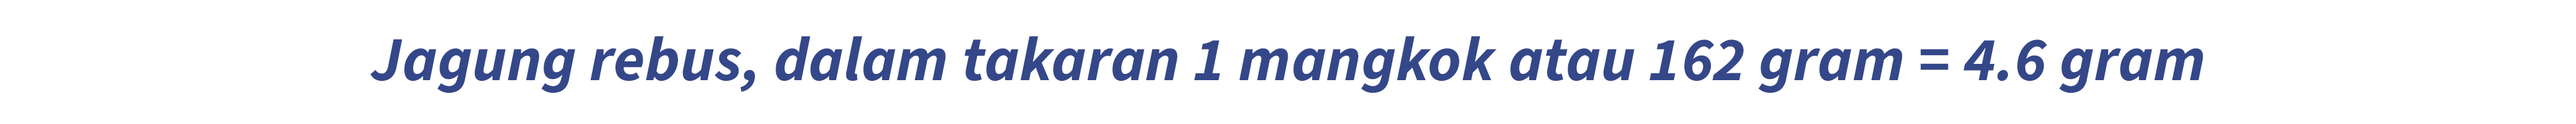
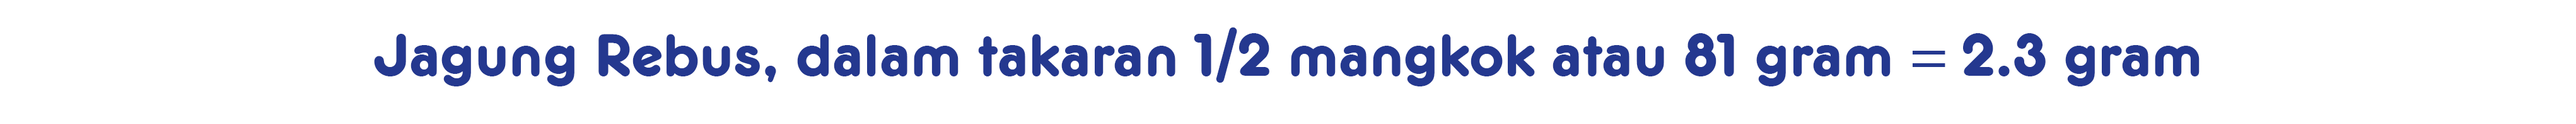
update anl

Changed region(s): [[0.1244, 0.2424, 0.8705, 0.7576], [0.2798, 0.697, 0.3109, 0.7273]]

diff --git a/src/scenes/QrScanner.js b/src/scenes/QrScanner.js
@@ -43,27 +43,52 @@ export class QrScanner extends Scene {
             }
         ).setShadow(1, 1).setDepth(1).setOrigin(0.5).setVisible(false);
 
-        // Menangani input dari barcode scanner yang bertindak seperti keyboard
-        this.input.keyboard.on('keydown', (event) => {
-            // Tambahkan karakter yang diterima ke scannedData
-            this.scannedData += event.key;
+        // this.input.keyboard.on('keydown', (event) => {
+        //     if (!this.isScanning) return;
 
-            // Hapus timeout lama jika ada
-            if (this.scanTimeout) {
-                clearTimeout(this.scanTimeout);
-            }
+        //     this.scannedData += event.key;
 
-            // Set timeout untuk memproses data setelah beberapa waktu (misal 500ms)
-            this.scanTimeout = setTimeout(() => {
-                if (this.scannedData) {
-                    // Lakukan pemrosesan pemindaian QR Code
-                    this.handleScanResult(this.scannedData);
-                    this.scannedData = ''; // Reset scannedData setelah diproses
+        //     if (this.scanTimeout) {
+        //         clearTimeout(this.scanTimeout);
+        //     }
+
+        //     this.scanTimeout = setTimeout(() => {
+        //         if (this.scannedData.trim()) {
+        //             this.handleScanResult(this.scannedData.trim());
+        //             this.scannedData = '';
+        //         }
+        //     }, 100);
+        // });
+
+        // Menambahkan input elemen DOM
+        const inputElement = this.add.dom(this.cameras.main.width / 2, this.cameras.main.height / 2)
+            .createFromCache('inputScan')
+            .setVisible(true);
+
+        // Pastikan inputElement adalah DOM element yang benar
+        const input = inputElement.getChildByName('scanField'); // Pastikan 'inputElement' adalah nama yang diberikan pada elemen input
+
+        if (input) {
+            input.style.opacity = 0;  // Menyembunyikan input element
+            input.style.pointerEvents = 'none';  // Tidak bisa diklik
+
+            // Fokuskan ke input untuk menerima data scanner
+            input.focus();
+
+            input.addEventListener('keydown', (event) => {
+                if (event.key === 'Enter') {
+                    const scannedValue = input.value.trim();
+                    if (scannedValue) {
+                        console.log(`Scanned Value: ${scannedValue}`);
+                        this.handleScanResult(scannedValue);
+                        input.value = ''; // Reset setelah memproses
+                    }
                 }
-            }, 500); // Waktu tunggu 500ms
-        });
+            });
+        } else {
+            console.log("Input element tidak ditemukan.");
+        }
 
-        // Elemen visual lainnya
         this.add.image(this.cameras.main.width / 2,
             this.cameras.main.height / 1.67, 'bebelac').setScale(1.6)
         const neon = this.add.image(this.cameras.main.width / 2,
@@ -74,7 +99,6 @@ export class QrScanner extends Scene {
             y: this.cameras.main.height / 1.67 - 220,
             duration: 2000,
             ease: 'Power',
-            // delay: 500,
             yoyo: true,
             repeat: -1,
         });
@@ -92,6 +116,7 @@ export class QrScanner extends Scene {
             .setScale(1).setOrigin(0.5, 0.5).setVisible(false);
         this.nextBtn = this.add.image(this.cameras.main.width / 2, this.cameras.main.height / 1.2, 'next')
             .setScale(0.2).setOrigin(0.5, 0.5).setInteractive().setVisible(false);
+
         this.nextBtn.on('pointerdown', () => {
             this.bg.setVisible(false);
             this.food.setVisible(false);
@@ -101,7 +126,7 @@ export class QrScanner extends Scene {
             this.nextBtn.setVisible(false)
             this.isScanning = true;
             if (this.countScan === 5) {
-                
+
                 localStorage.setItem('score', this.score.toFixed(1).toString());
                 this.countScan = 1;
                 this.score = 0;
@@ -135,9 +160,8 @@ export class QrScanner extends Scene {
     }
 
     handleScanResult(data) {
-        // Tampilkan informasi berdasarkan hasil pemindaian
         console.log(`QR Code Detected: ${data.split('Enter')[0]}`);
-        const split = data.split('Enter')[0]
+        const split = data.split('Enter')[0].toLowerCase()
         console.log(split);
         if (this.isScanning) {
             switch (split) {
@@ -150,11 +174,11 @@ export class QrScanner extends Scene {
                     this.showFoodInfo(split)
                     break;
                 case "brokoli":
-                    this.score = this.score + 5.2;
+                    this.score = this.score + 2.6;
                     this.showFoodInfo(split)
                     break;
                 case "jagung":
-                    this.score = this.score + 4.6;
+                    this.score = this.score + 2.3;
                     this.showFoodInfo(split)
                     break;
                 case "pisang":
@@ -166,11 +190,11 @@ export class QrScanner extends Scene {
                     this.showFoodInfo(split)
                     break;
                 case "susu-fosgos":
-                    this.score = this.score + 3;
+                    this.score = this.score + 2;
                     this.showFoodInfo(split)
                     break;
                 case "tomat":
-                    this.score = this.score + 1.5;
+                    this.score = this.score + 1;
                     this.showFoodInfo(split)
                     break;
                 case "pepaya":

diff --git a/public/assets/html/inputScan.html b/public/assets/html/inputScan.html
@@ -1,0 +1,5 @@
+<div id="inputScan"
+    style="width:auto; height: auto; padding: 30px;  border-radius: 10px; text-align: center; ">
+    <input type="text" name="scanField" placeholder="Masukkan nama Anda"
+        style="width:auto; padding: 30px; margin-bottom: 40px; color: rgb(233, 170, 11); font-size: 10px; text-align: center; font-weight: bold; box-sizing: border-box;">
+</div>

diff --git a/src/scenes/Preloader.js b/src/scenes/Preloader.js
@@ -95,6 +95,7 @@ export class Preloader extends Scene {
         this.load.audio('cry', 'audio/cry.mp3')
 
         this.load.html('nameform', 'html/nameform.html')
+        this.load.html('inputScan', 'html/inputScan.html')
     }
 
     create() {
